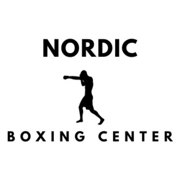
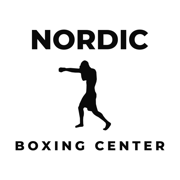
Ny vektorlogo i samme stil som originalen
- Samme tekst og boksersilhuett (sporet fra originallogoen), Montserrat ExtraBold (OFL)
- Sentrert med jevn luft på alle sider, skarp på alle skjermer (SVG)
- Favikon og Apple-ikon laget fra den nye logoen

Changed region(s): [[0.0278, 0.1389, 0.9722, 0.8611]]

diff --git a/public/admin/index.html b/public/admin/index.html
@@ -5,6 +5,7 @@
 <meta name="viewport" content="width=device-width, initial-scale=1">
 <meta name="robots" content="noindex">
 <title>Admin – Nordic Boxing Center</title>
+<link rel="icon" type="image/svg+xml" href="/assets/nbc-logo-icon.svg">
 <link rel="icon" type="image/png" href="/assets/icon-192.png">
 <link rel="apple-touch-icon" href="/assets/apple-touch-icon.png">
 <link rel="preconnect" href="https://fonts.googleapis.com">
@@ -19,7 +20,7 @@
 <!-- Login -->
 <main id="login" class="login" hidden>
   <form class="card login-card" id="login-form">
-    <div class="brand"><img class="brand-logo" src="/assets/nbc-logo-v3.jpg" alt="Nordic Boxing Center" width="320" height="320"><small class="brand-tag">Admin</small></div>
+    <div class="brand"><img class="brand-logo" src="/assets/nbc-logo.svg" alt="Nordic Boxing Center" width="200" height="200"><small class="brand-tag">Admin</small></div>
     <h1>Logg inn</h1>
     <label>E-post<input name="email" type="email" autocomplete="username" required></label>
     <label>Passord<input name="password" type="password" autocomplete="current-password" required></label>
@@ -31,7 +32,7 @@
 <!-- App -->
 <div id="app" class="app" hidden>
   <aside class="side">
-    <div class="brand"><img class="brand-logo" src="/assets/nbc-logo-v3.jpg" alt="Nordic Boxing Center" width="320" height="320"><small class="brand-tag">Admin</small></div>
+    <div class="brand"><img class="brand-logo" src="/assets/nbc-logo.svg" alt="Nordic Boxing Center" width="200" height="200"><small class="brand-tag">Admin</small></div>
     <nav class="nav" aria-label="Admin">
       <a href="#/" data-nav="oversikt">Oversikt</a>
       <a href="#/medlemmer" data-nav="medlemmer">Medlemmer</a>

diff --git a/public/index.html b/public/index.html
@@ -6,6 +6,7 @@
 <script>document.documentElement.classList.add("js")</script>
 <title>Nordic Boxing Center</title>
 <meta name="description" content="Nordic Boxing Center – boksing for nybegynnere og videregående i Kristiansand. Lumberveien 29C, 4621 Kristiansand.">
+<link rel="icon" type="image/svg+xml" href="/assets/nbc-logo-icon.svg">
 <link rel="icon" type="image/png" href="/assets/icon-192.png">
 <link rel="apple-touch-icon" href="/assets/apple-touch-icon.png">
 <link rel="preload" href="/assets/hero-poster.jpg" as="image" fetchpriority="high">
@@ -289,7 +290,7 @@ footer{border-top:1px solid var(--line);padding:40px 0;background:var(--navy-950
 <header class="header" id="header">
   <nav class="wrap nav" aria-label="Hovedmeny">
     <a href="#top" class="brand" aria-label="Nordic Boxing Center – til toppen">
-      <img class="brand-logo" src="/assets/nbc-logo-v3.jpg" alt="Nordic Boxing Center" width="320" height="320">
+      <img class="brand-logo" src="/assets/nbc-logo.svg" alt="Nordic Boxing Center" width="200" height="200">
     </a>
     <ul class="menu" id="menu">
       <li><a href="#tilbud">Våre tilbud</a></li>

diff --git a/public/bli-medlem.html b/public/bli-medlem.html
@@ -5,6 +5,7 @@
 <meta name="viewport" content="width=device-width, initial-scale=1">
 <title>Bli medlem – Nordic Boxing Center</title>
 <meta name="description" content="Meld deg inn i Nordic Boxing Center med BankID og betal med Vipps eller kort.">
+<link rel="icon" type="image/svg+xml" href="/assets/nbc-logo-icon.svg">
 <link rel="icon" type="image/png" href="/assets/icon-192.png">
 <link rel="apple-touch-icon" href="/assets/apple-touch-icon.png">
 <link rel="preconnect" href="https://fonts.googleapis.com">
@@ -98,7 +99,7 @@ body{min-height:100vh;background:radial-gradient(900px 500px at 90% 0%,rgba(35,6
 
 <header class="top">
   <a href="/" class="brand" aria-label="Nordic Boxing Center – forsiden">
-    <img class="brand-logo" src="/assets/nbc-logo-v3.jpg" alt="Nordic Boxing Center" width="320" height="320">
+    <img class="brand-logo" src="/assets/nbc-logo.svg" alt="Nordic Boxing Center" width="200" height="200">
   </a>
   <a href="/" class="back">← Til forsiden</a>
 </header>
